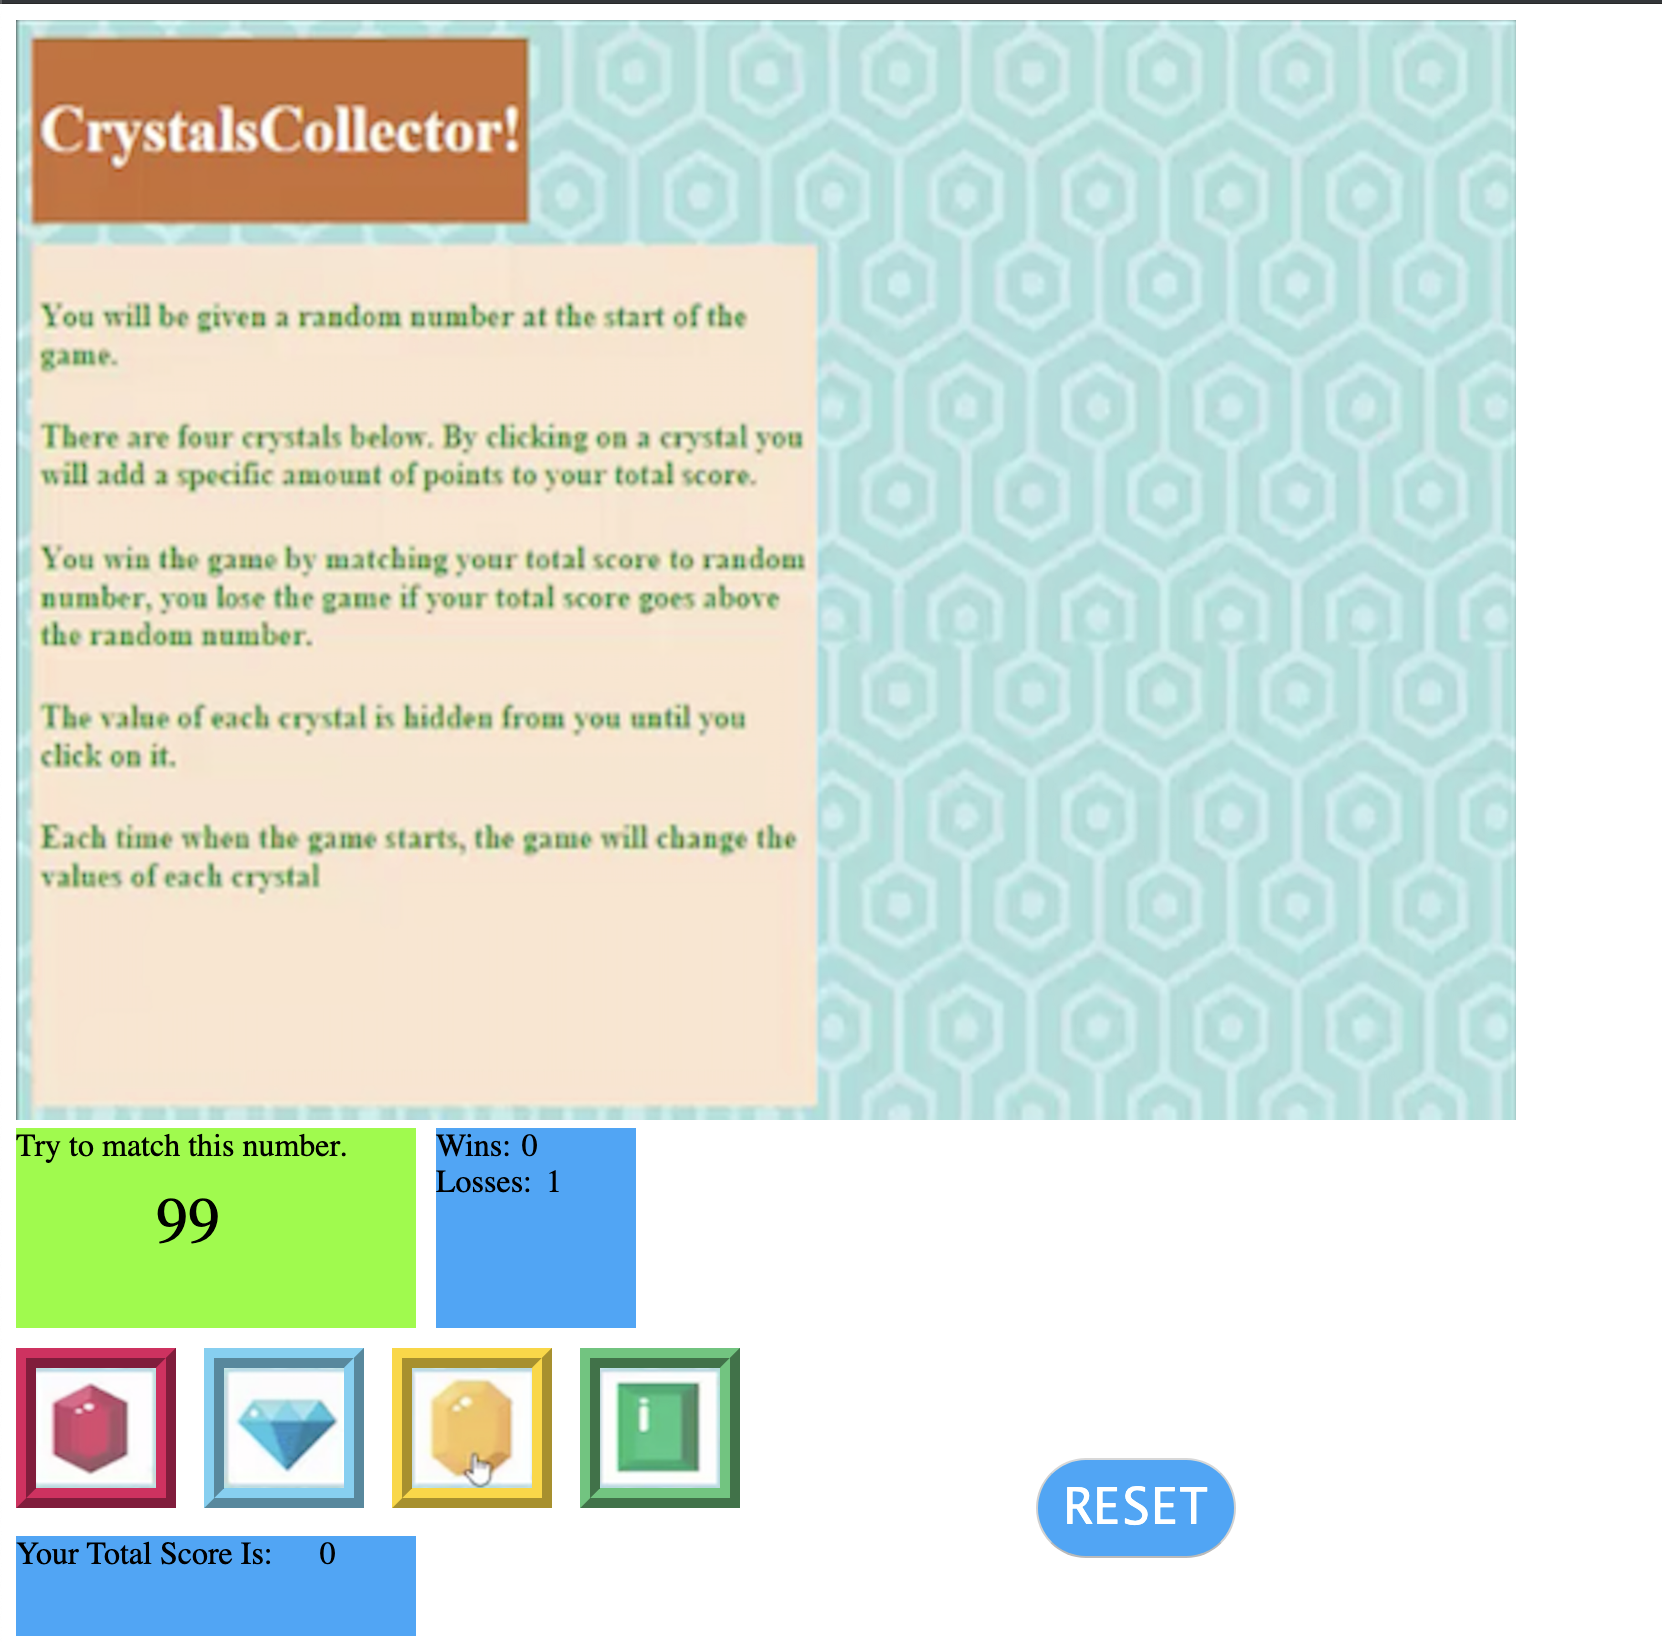
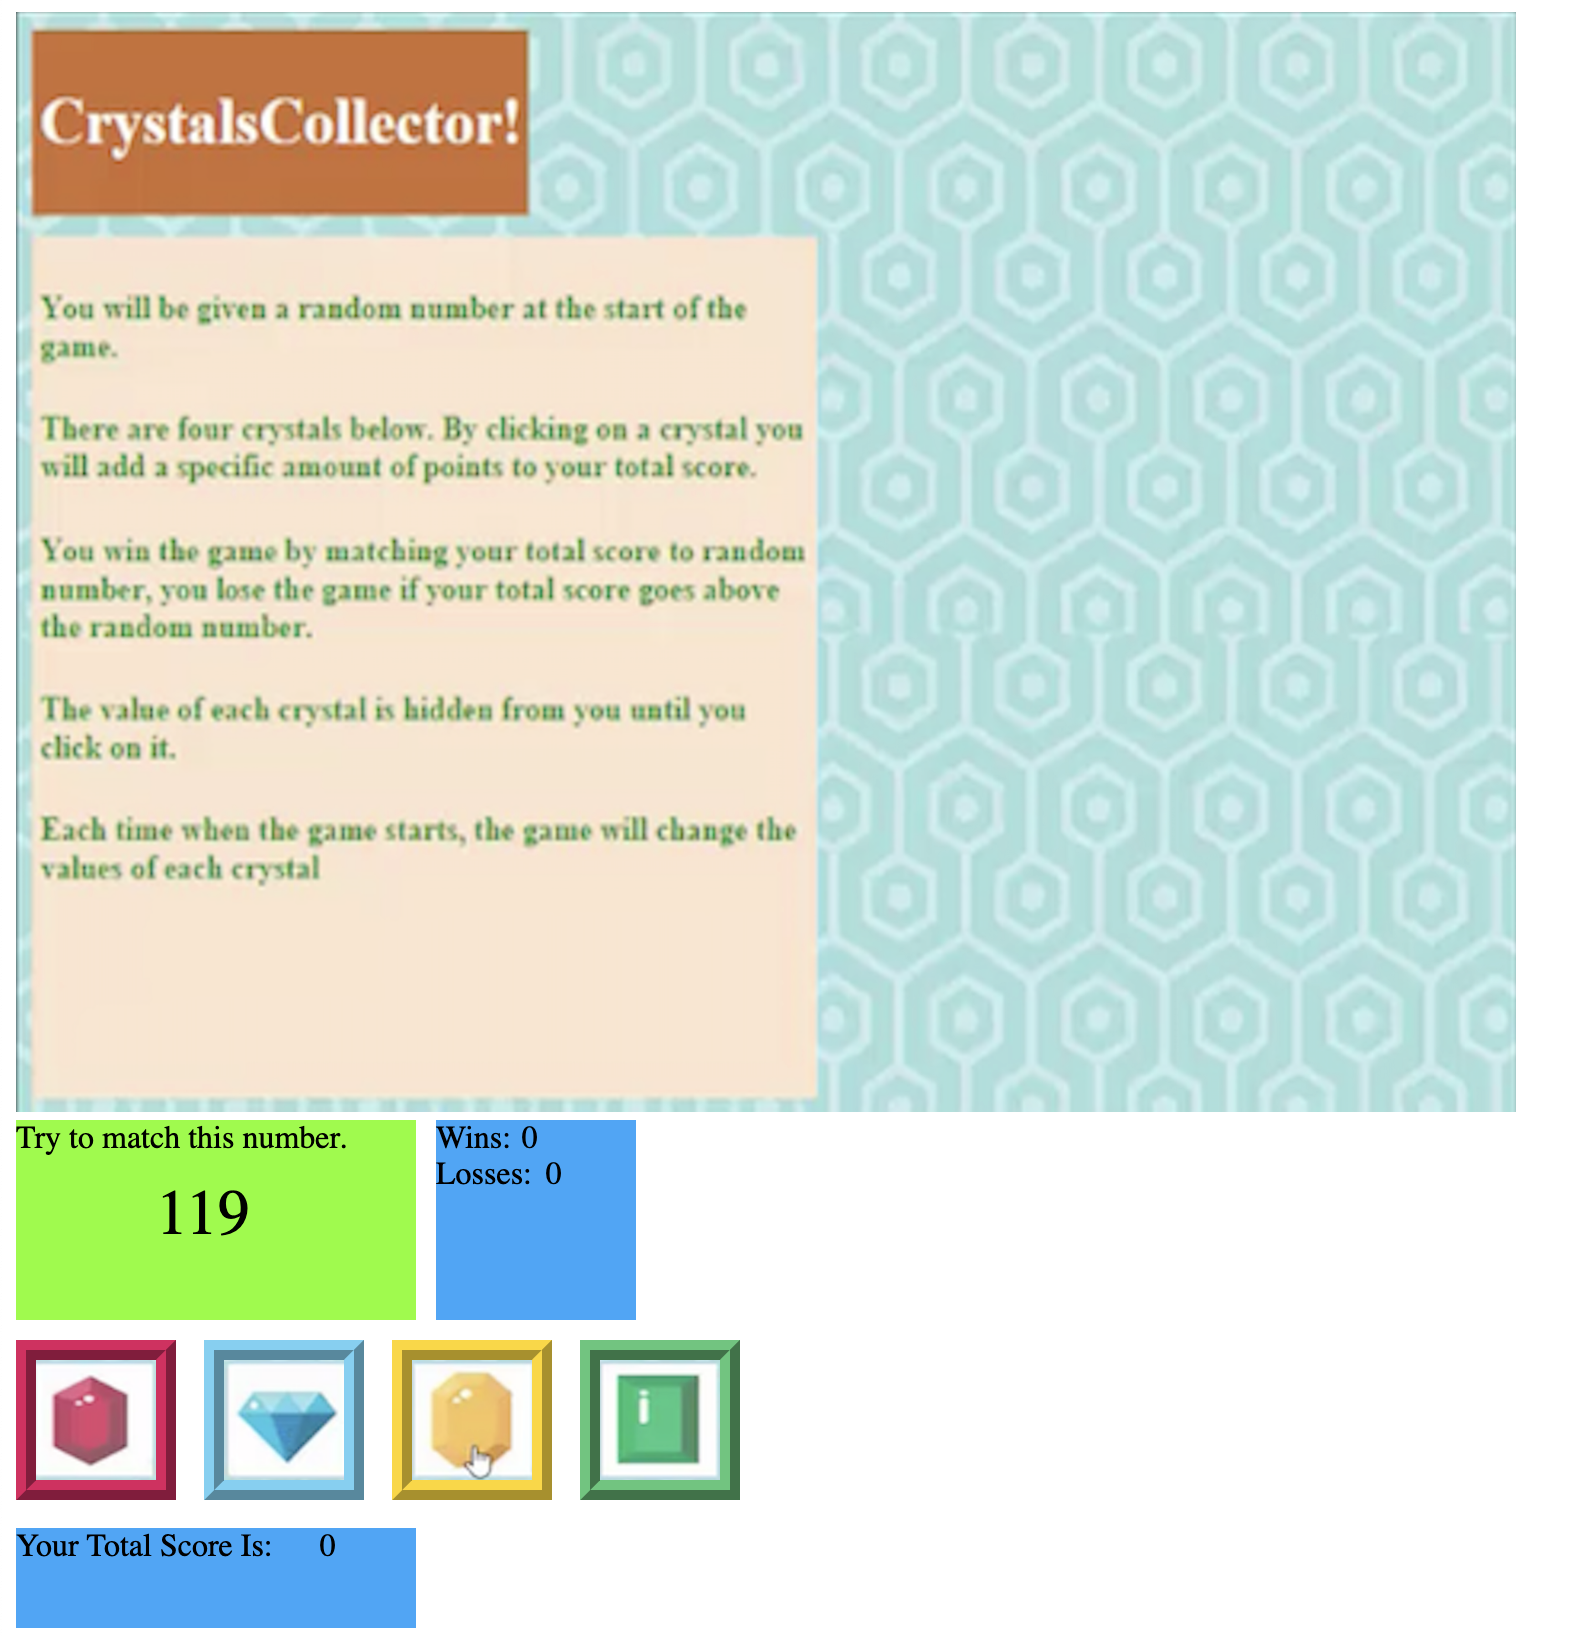
made final comment updates to READMe. turned off cheat mode css

diff --git a/assets/css/style.css b/assets/css/style.css
@@ -133,7 +133,7 @@
 
 .num-test {
   margin-top: 75px;
-  /* display: none; */
+  display: none;
 }
 
 #ruby-cheat {

diff --git a/README.md b/README.md
@@ -3,6 +3,8 @@
 ## Page preview: 
 ![](assets/images/screen-shot.png)
 
+## Page-preview for "Cheat-Mode" section. Turned off for deployment
+![](assets/images/cheat-mode.png)
 
 ## About the project:
 
@@ -17,10 +19,18 @@ We had to build a game where the user clicks on one of 4 gems, each assigned wit
 
 ## Methodology:
 
-I created sepearate arrays for the random number shown to the user as well as the gems. Using our friend math.floor-math.round, I got the random numbers for the game target and the point values for each gem. From their, I mapped the random numbers to their respective fields. My logic is detailed in the comments in the game2.js. 
+I used math.floor-math.random to generate the random numbers for the computer guess and the gems. The gems were pretty strait forward but the computer guess was tricky because the random number has to be btw 19 and 120. I looked up methods on-line for that and found several copde snippets, however, I didn't want to just copy-paste other peoples' snippets for this. I want top try an come up with one myself. Till then, I went the long way which is to create an array of numbers btw 19-120 and have the method choose from the array. If I can come up with my own formula, I will update and push up to GH.
 
-The original game.js had to be refactored in a big way because I ran into major bugs with the score counts. They were not adding up correctly so I went back and reviewed the class jQuery resources from last week. I realized that the numbers were most likely string values. I started a new js file to refactor the game code. 
+I made a function top generate the numbers to start the game and another function to reset the game when the game over conditions are met. 
 
-I built the page structure in HTML by taking separate screen-shots of the gems plus the back ground from the screen-shot given to us in the homework instructions. I used the gem screen-shots to create buttons for the gems. I used css to place the images accordingly on the page.
+I built the page structure in HTML by taking separate screen-shots of the gems plus the background from the screen-shot given to us in the homework instructions. I used the gem screen-shots to create buttons for the gems. I used css to place the images accordingly on the page.
 
+I also made a cheat-mode for developement so I can see the random numbers for the gem. It's turned off but If you want to see the gem point values, just go to the css file and comment out the display: none;
+
+.num-test {
+  margin-top: 75px;
+  display: none;
+}
+
+The second js file called gameTest is used for testing.
 
